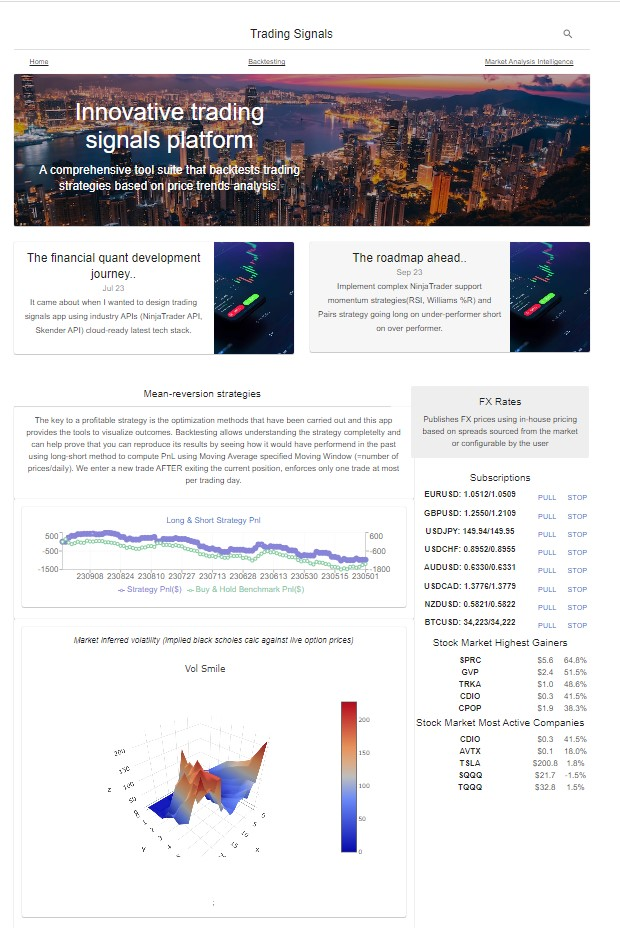
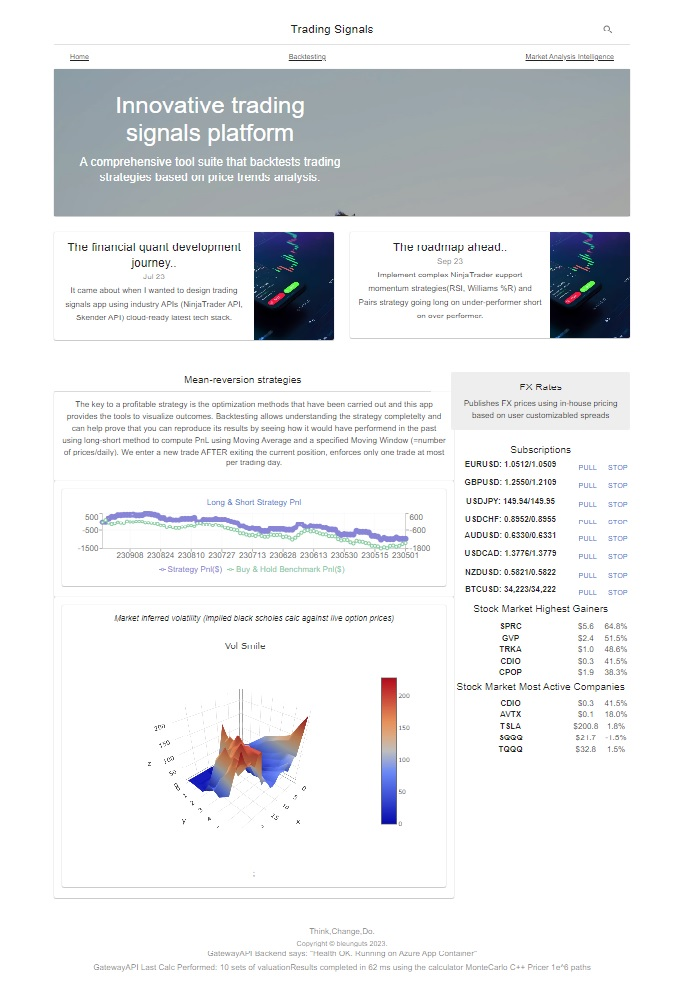
Use SignalR on web to print out completed valuation result summary on the footer of the page

diff --git a/Web/src/components/layout/Footer.tsx b/Web/src/components/layout/Footer.tsx
@@ -4,6 +4,8 @@ import Container from '@mui/material/Container';
 import Typography from '@mui/material/Typography';
 import Link from '@mui/material/Link';
 import axios from 'axios';
+import * as signalR from "@microsoft/signalr";
+import { HubConnectionState } from '@microsoft/signalr';
 
 function Copyright() {
   return (
@@ -23,21 +25,73 @@ interface FooterProps {
   title: string;
 }
 
+const backendServer = `https://projectxgatewayapi-app-20231130.yellowfield-d8e525a6.uksouth.azurecontainerapps.io`;
+const connection = new signalR.HubConnectionBuilder()
+    .withUrl(`${backendServer}/streamHub`)
+    .configureLogging(signalR.LogLevel.Information)
+    .build();
+
+async function start() {
+    if (connection.state != HubConnectionState.Disconnected) {
+        return;
+    }
+    try {
+        await connection.start();
+        console.log("SignalR Connected.");
+    } catch (err) {
+        console.log(err);
+        setTimeout(start, 5000);
+    }
+};
+
+connection.onclose(async () => {
+    await start();
+});
+
 export default function Footer(props: FooterProps) {  
-  useEffect(() => { getData(); }, []);
+    useEffect(() => {
+        start();        
+        getData();
+    }, []);
 
   const { description, title } = props;    
-  const [serverData, setServerData] = useState<any>([]);
+    const [serverData, setServerData] = useState<any>([]);
+    const [lastCalcType, setLastCalcType] = useState<any>('');
+    const [lastResultsCount, setLastResultsCount] = useState<any>('');
+    const [lastCalcTime, setLastCalcTime] = useState<any>('');
 
   const getData = async () => {    
-    setServerData("Ciao!");
-    await axios.get(`https://projectxgatewayapi-app-20231130.yellowfield-d8e525a6.uksouth.azurecontainerapps.io`).then(response => {
+      setServerData("Ciao!");     
+      await axios.get(backendServer).then((response: { data: any; }) => {
       setServerData(response.data);
     })
-    .catch(error => {
+    .catch((error: string) => {
       console.log("Backend communication error: " + error);
     });    
-  };
+    };
+
+    // suscribe to signalR events
+    connection.on("PricingResults", (pricingResults) => {
+        console.log("Client recieved a PricingResult" + JSON.stringify(pricingResults));
+        let calcType = "unknown";
+        switch (pricingResults["auditTrail"]["calculatorType"]) {
+            case 0:
+                calcType = "BlackScholesCSharpPricer";
+                break;
+            case 1:
+                calcType = "BlackScholes C++ Pricer";
+                break;
+            case 2: 
+                calcType = "MonteCarlo C++ Pricer 1e^6 paths";
+                break;
+        }
+        setLastCalcType(calcType);
+        setLastResultsCount(pricingResults["resultsCount"]);
+        setLastCalcTime(pricingResults["auditTrail"]["elapsedMilliseconds"])
+    });
+    connection.on("PlotResults", (plotResults) => {
+        console.log("Client received a PlotResult" + JSON.stringify(plotResults));
+    });
 
   return (
     <Box component="footer" sx={{ bgcolor: 'background.paper', py: 6 }}>
@@ -60,8 +114,17 @@ export default function Footer(props: FooterProps) {
           color="text.secondary"
           component="p"
         >
-          GatewayAPI Backend says: {JSON.stringify(serverData)}
+          GatewayAPI Backend says: {JSON.stringify(serverData)}         
         </Typography>
+        <Typography
+            variant="subtitle1"
+            align="center"
+            color="text.secondary"
+            component="p"
+              >
+                  GatewayAPI Last Calc Performed: {lastResultsCount} sets of valuationResults completed in {lastCalcTime} ms using the calculator {lastCalcType}
+        </Typography>
+              
       </Container>
     </Box>
   );
